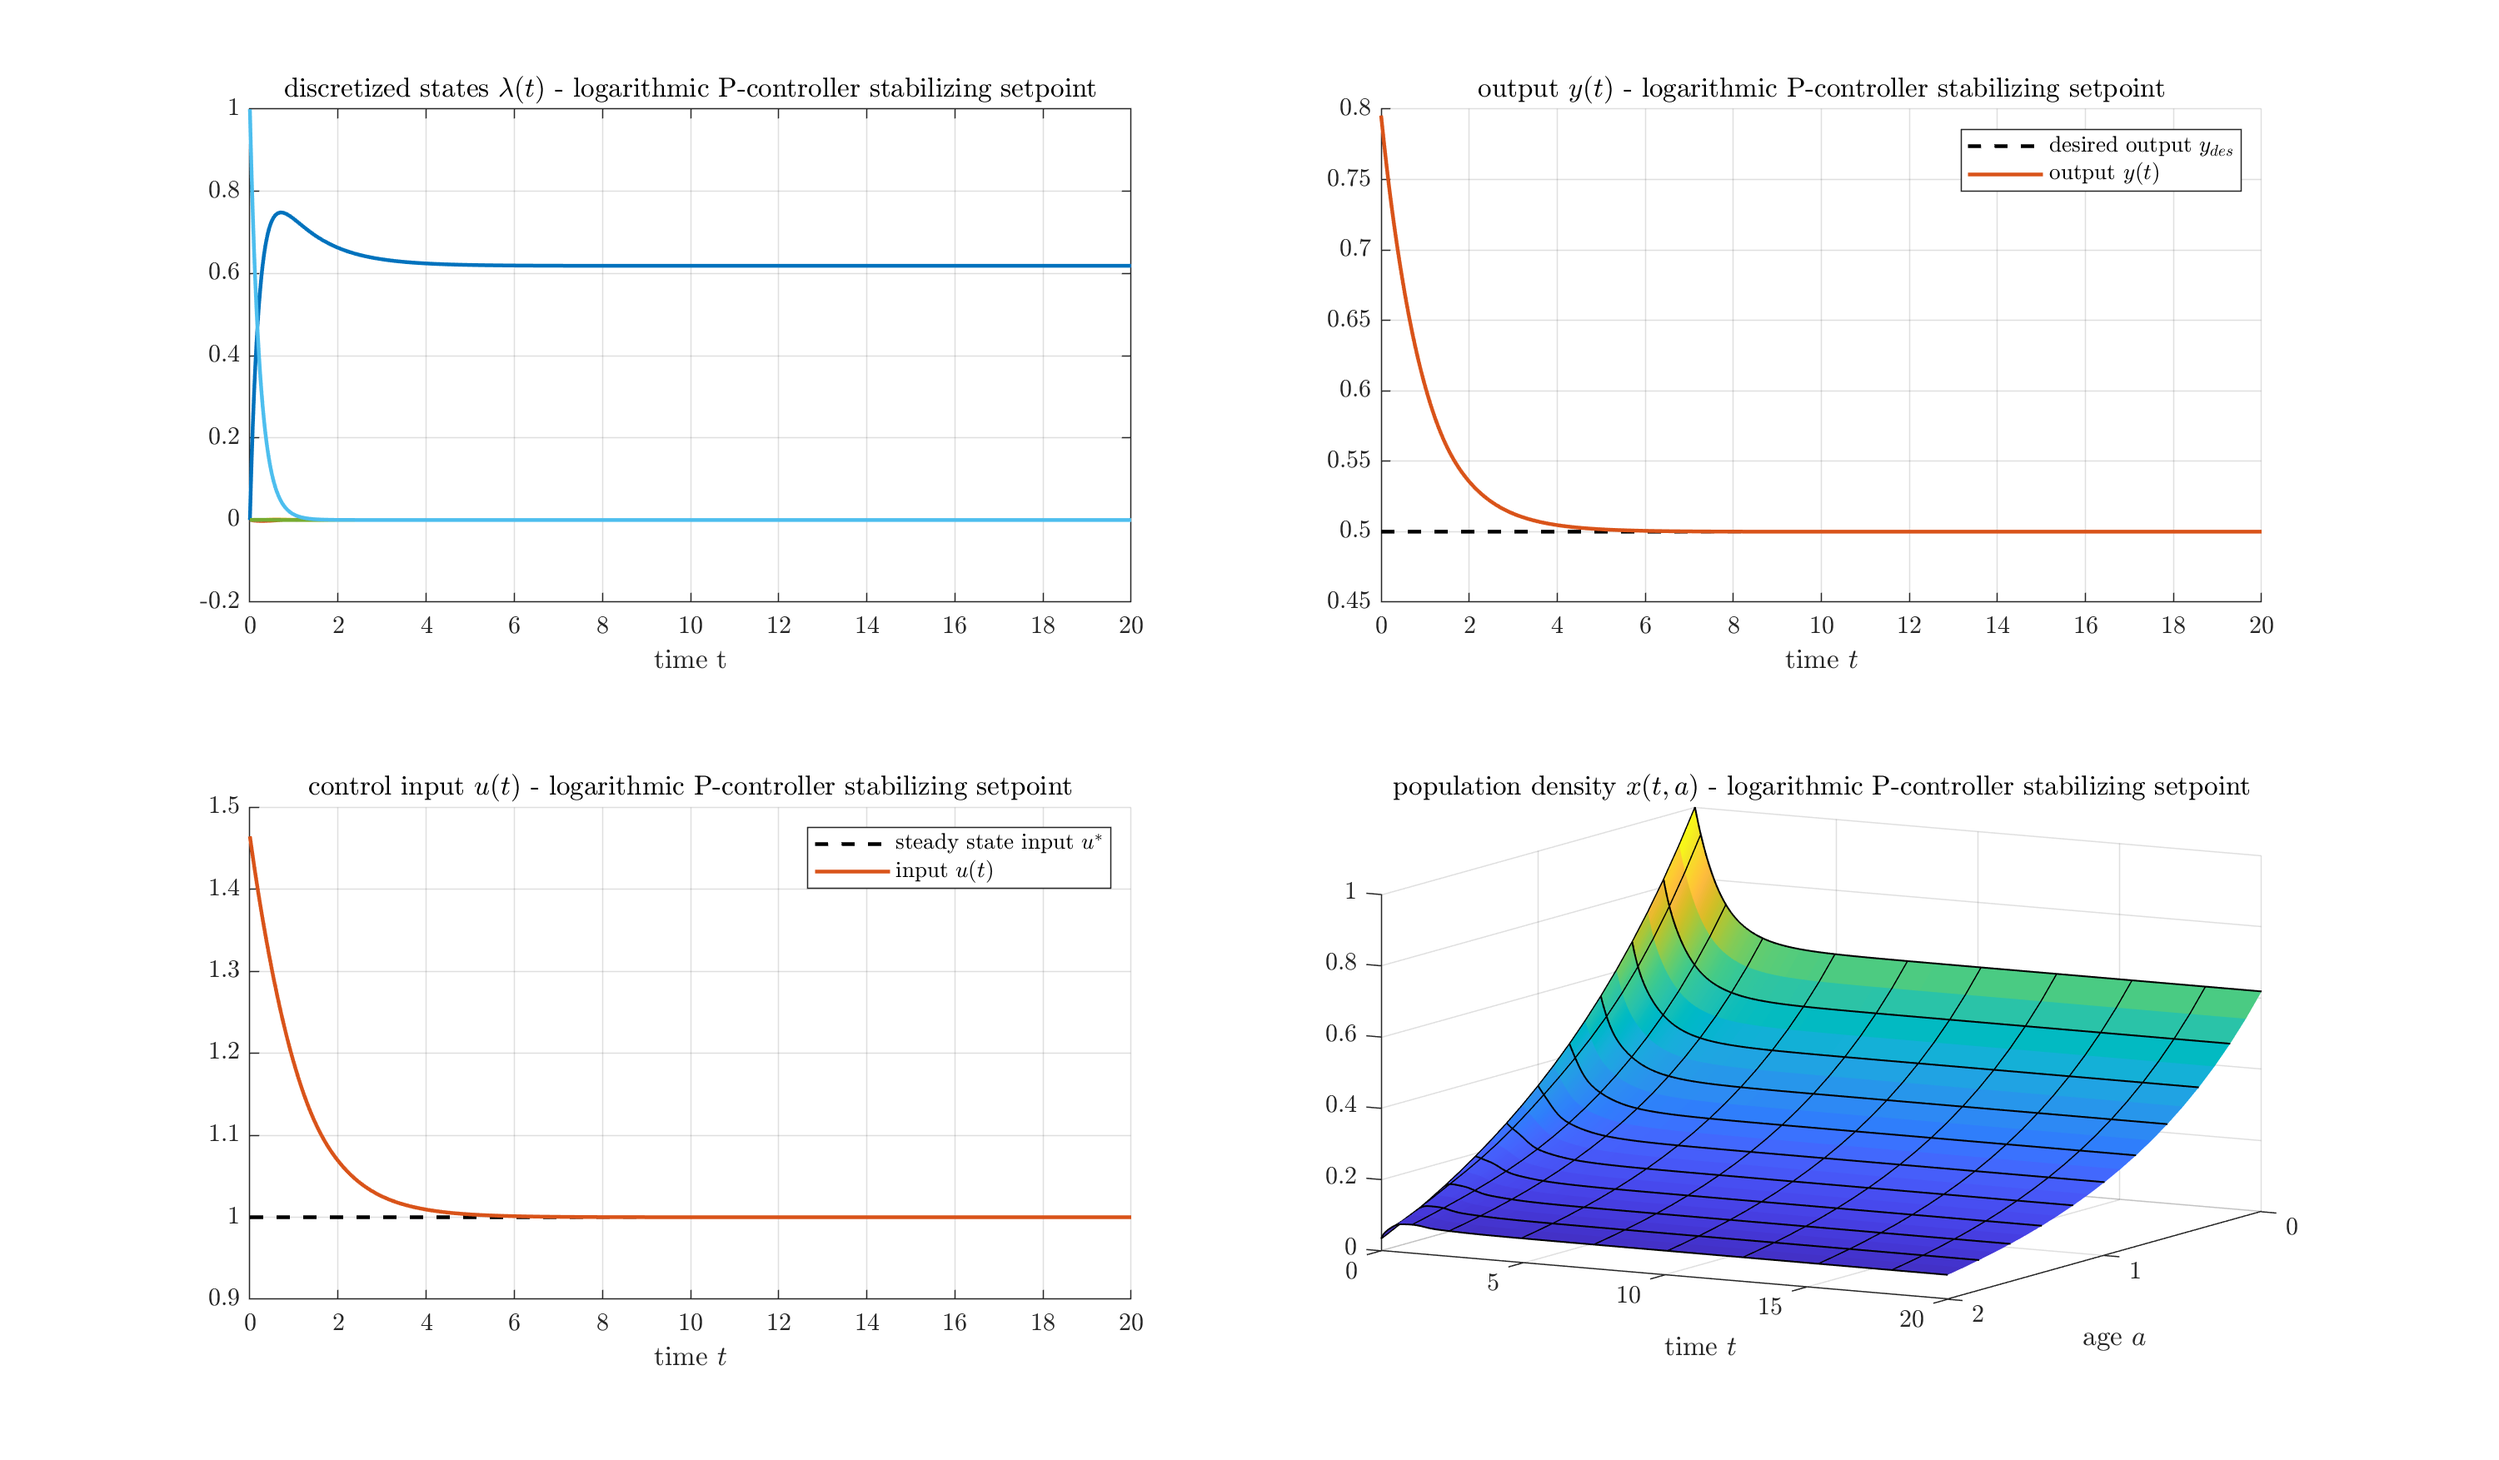
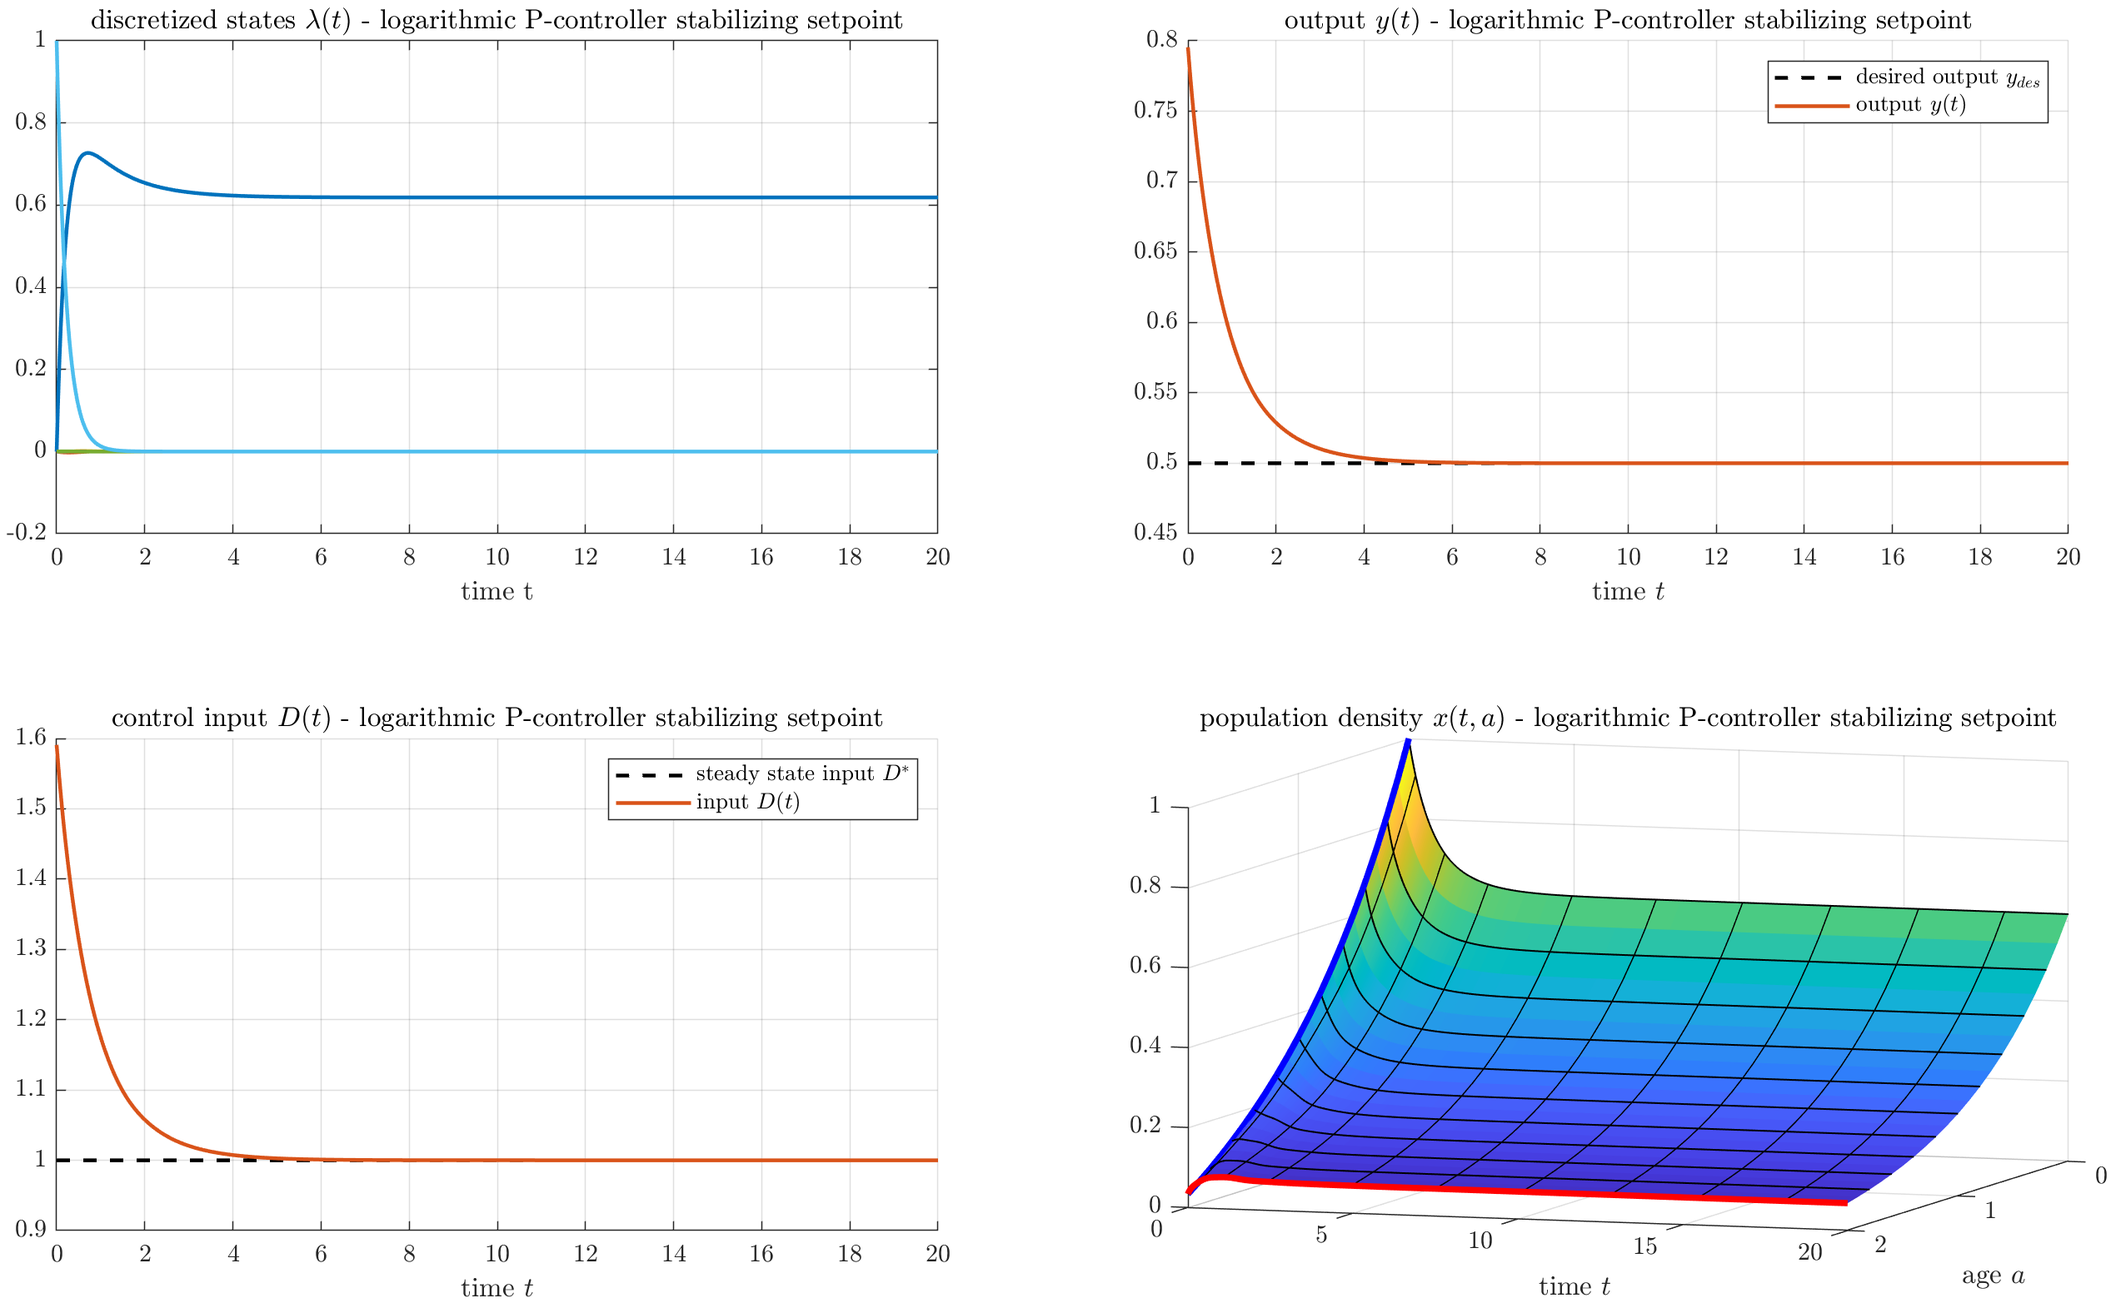
created clean plot for documentation

diff --git a/simulation_ActuatorDynamics.m b/simulation_ActuatorDynamics.m
@@ -108,12 +108,12 @@ u_ctrl = @(rho) u_cancel(rho) + u_stabilize(rho);
 dynamics = @(t,rho) [(A_mat-eye(size(A_mat))*rho(end))*rho(1:end-1);
                       u_ctrl(rho)];
 
-lambda_0 = zeros(size(A_mat,1),1);
+lambda_0 = zeros(size(A_mat,1),1); % initial conditions
 lambda_0(end) = 1;
 rho_0 = [lambda_0;D_star];
-tspan = [0 20];
+tspan = [0 10]; % simulation horizon
 
-[t_sample,rho_sample] = ode45(dynamics,tspan,rho_0);
+[t_sample,rho_sample] = ode45(dynamics,tspan,rho_0); % run simulation
 
 lambda_sample = rho_sample(:,1:end-1);
 D_sample = rho_sample(:,end);
@@ -129,10 +129,12 @@ for kk = 1:size(lambda_sample,1)
     u_cancel_sample(kk) = u_cancel(rho_sample(kk,:)');
 end
 
-%% plot results - P-controller stabilizing setpoint
+%% plot results - P-controller stabilizing setpoint DEBUG PLOT
 
 figure
-tiledlayout(2,2)
+tiles_handle = tiledlayout(2,2);
+title(tiles_handle,'Debug Plot','Interpreter','Latex')
+
 nexttile
 plot(t_sample,lambda_sample)
 title('discretized states $\lambda(t)$ - backstepping controller')
@@ -191,6 +193,57 @@ xlabel('age $a$')
 ylabel('time $t$')
 title('population density $x(t,a)$ - backstepping controller')
 
+%% plot results - P-controller stabilizing setpoint KRSTIC plot
+figure
+tiles_handle = tiledlayout(2,2);
+title(tiles_handle,'Print Plot','Interpreter','Latex')
+
+nexttile
+plot(t_sample,u_ctrl_sample)
+title('input $u(t)$ - backstepping controller')
+xlabel('time t')
+grid on
+
+output_ax_handle = nexttile;
+hold on
+plot(t_sample,ones(size(y_sample))*y_des,'--k','Linewidth',1.5)
+plot(t_sample,y_sample)
+title('output $y(t)$ - backstepping controller')
+legend('desired output $y_\mathrm{des}$','output $y(t)$')
+xlabel('time $t$')
+grid on
+
+nexttile
+hold on
+plot(t_sample,ones(size(D_sample))*D_star,'--k','Linewidth',1.5)
+plot(t_sample,D_sample)
+title('dilution rate $D(t)$ - backstepping controller')
+legend('steady state dilution $D^\ast$','dilution rate $D(t)$')
+xlabel('time $t$')
+grid on
+
+% plot the PDE state where x(t,a) = lambda(t)'*phi(a);
+
+% time sample from above
+% define domain sample
+a_sample = 0:0.1:A;
+
+[a_mesh,t_mesh] = meshgrid(a_sample,t_sample);
+x_mesh = zeros(size(a_mesh));
+
+for ii = 1:length(t_sample)
+    for jj = 1:length(a_sample)
+        x_mesh(ii,jj) = lambda_sample(ii,:)*eval_phi(phi,a_sample(jj));
+    end
+end
+
+axes_handle = nexttile;
+surf_plot = surf(a_mesh,t_mesh,x_mesh,'FaceColor',[0 0.4470 0.7410]);
+LessEdgeSurf(surf_plot);
+axes_handle.CameraPosition = [14.8362   50.7407    3.5923];
+xlabel('age $a$')
+ylabel('time $t$')
+title('population density $f(t,a)$ - backstepping controller')
 
 %% functions
 

diff --git a/simulation_basic.m b/simulation_basic.m
@@ -3,36 +3,36 @@ clear
 
 %% ------ parameters
 
-% % [Schmidt17]
-% A = 2; % max age
-% mu = @(a) .1; % mortality rate fcn
-% k = @(a) 2*a.*(A-a); % birth kernel
-% p = 1; % output kernel
-% manuallyProvideMuINT = false; % boolean, that switches integral of mu on or off.
-% D_star = 1; % steady-state dilution rate
-% y0 = 1; % initial output
-% c1 = -.066;
-% c2 = -.9;
-% x0 = @(a) c1*a + exp(c2*a); % IC
-% sigma(1) = -4.0335; % eigenvalues of the form lambda = -sigma/A+-j*omega/(2*pi*A)
-% omega(1) = 55.4606;
-% sigma(2) = -4.9866;
-% omega(2) = 95.7048;
-
-% [KurthSawodny21]
+% [Schmidt17]
 A = 2; % max age
-mu = @(a) 1/(20-5*a); % mortality rate function - problem: matlab cannot find the correct integral...
-k = @(a) a; % birth kernel
+mu = @(a) .1; % mortality rate fcn
+k = @(a) 2*a.*(A-a); % birth kernel
 p = 1; % output kernel
-manuallyProvideMuINT = true; % boolean, that switches integral of mu on or off.
-mu_int = @(a) -log((4-a)/4)/5; % = int_0^a mu(s) ds for a \in [0,2]
-D_star = 0.4837;
+manuallyProvideMuINT = false; % boolean, that switches integral of mu on or off.
+D_star = 1; % steady-state dilution rate
 y0 = 1; % initial output
-x0 = @(a) 8-3*a; % IC
-sigma(1) = -1.8224; % eigenvalues of the form lambda = -sigma/A+-j*omega/(2*pi*A)
-omega(1) = 48.0574;
-sigma(2) = -2.3838;
-omega(2) = 87.8539;
+c1 = -.066;
+c2 = -.9;
+x0 = @(a) c1*a + exp(c2*a); % IC
+sigma(1) = -4.0335; % eigenvalues of the form lambda = -sigma/A+-j*omega/(2*pi*A)
+omega(1) = 55.4606;
+sigma(2) = -4.9866;
+omega(2) = 95.7048;
+
+% % [KurthSawodny21]
+% A = 2; % max age
+% mu = @(a) 1/(20-5*a); % mortality rate function - problem: matlab cannot find the correct integral...
+% k = @(a) a; % birth kernel
+% p = 1; % output kernel
+% manuallyProvideMuINT = true; % boolean, that switches integral of mu on or off.
+% mu_int = @(a) -log((4-a)/4)/5; % = int_0^a mu(s) ds for a \in [0,2]
+% D_star = 0.4837;
+% y0 = 1; % initial output
+% x0 = @(a) 8-3*a; % IC
+% sigma(1) = -1.8224; % eigenvalues of the form lambda = -sigma/A+-j*omega/(2*pi*A)
+% omega(1) = 48.0574;
+% sigma(2) = -2.3838;
+% omega(2) = 87.8539;
 
 % % parameters for IC - Thesis [Schmidt16]
 % mu_par = 1.3;
@@ -147,7 +147,7 @@ axes_handle.CameraPosition = [15.8393  -65.0215   37.0943];
 % choose desired setpoint for output - equivalent to choosing a desired
 % equilibrium profile x^\ast(a), or better its family parameter.
 
-y_des = 15;
+y_des = .5;
 
 % D_ctrl = @(lambda) D_star + log(C_mat*lambda/y_des);
 D_ctrl = @(lambda) D_star + (C_mat*lambda-y_des)/y_des;

diff --git a/LessEdgeSurf.m b/LessEdgeSurf.m
@@ -23,14 +23,14 @@ hold on
 for i = 1:yspacing:ylength
     if i == 1
 %         mesh([X(i,:);X(i,:)], [Y(i,:);Y(i,:)], [Z(i,:);Z(i,:)],'EdgeColor',[0.4940 0.1840 0.5560],'Linewidth',1.5);
-        mesh([X(i,:);X(i,:)], [Y(i,:);Y(i,:)], [Z(i,:);Z(i,:)],'EdgeColor','blue','Linewidth',2.5);
+        mesh([X(i,:);X(i,:)], [Y(i,:);Y(i,:)], [Z(i,:);Z(i,:)],'EdgeColor','green','Linewidth',2.5);
     else
         mesh([X(i,:);X(i,:)], [Y(i,:);Y(i,:)], [Z(i,:);Z(i,:)],'EdgeColor',[0 0 0]);
     end
 end
 % Plotting lines in the Y-Z plane
 for i = 1:xspacing:xlength
-  if i == xlength
+  if i == 1
       mesh([X(:,i),X(:,i)], [Y(:,i),Y(:,i)], [Z(:,i),Z(:,i)],'EdgeColor','red','Linewidth',2.5);
   else
       mesh([X(:,i),X(:,i)], [Y(:,i),Y(:,i)], [Z(:,i),Z(:,i)],'EdgeColor',[0 0 0]);
